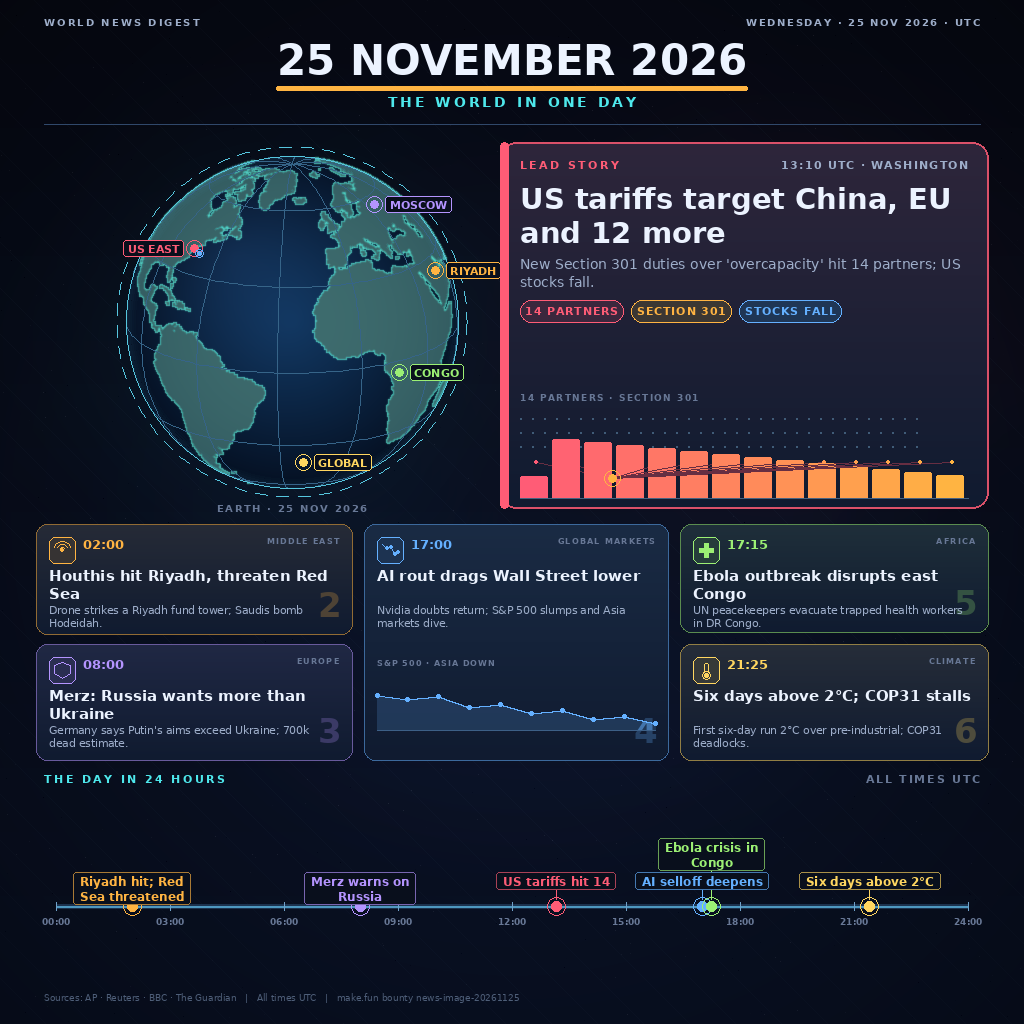
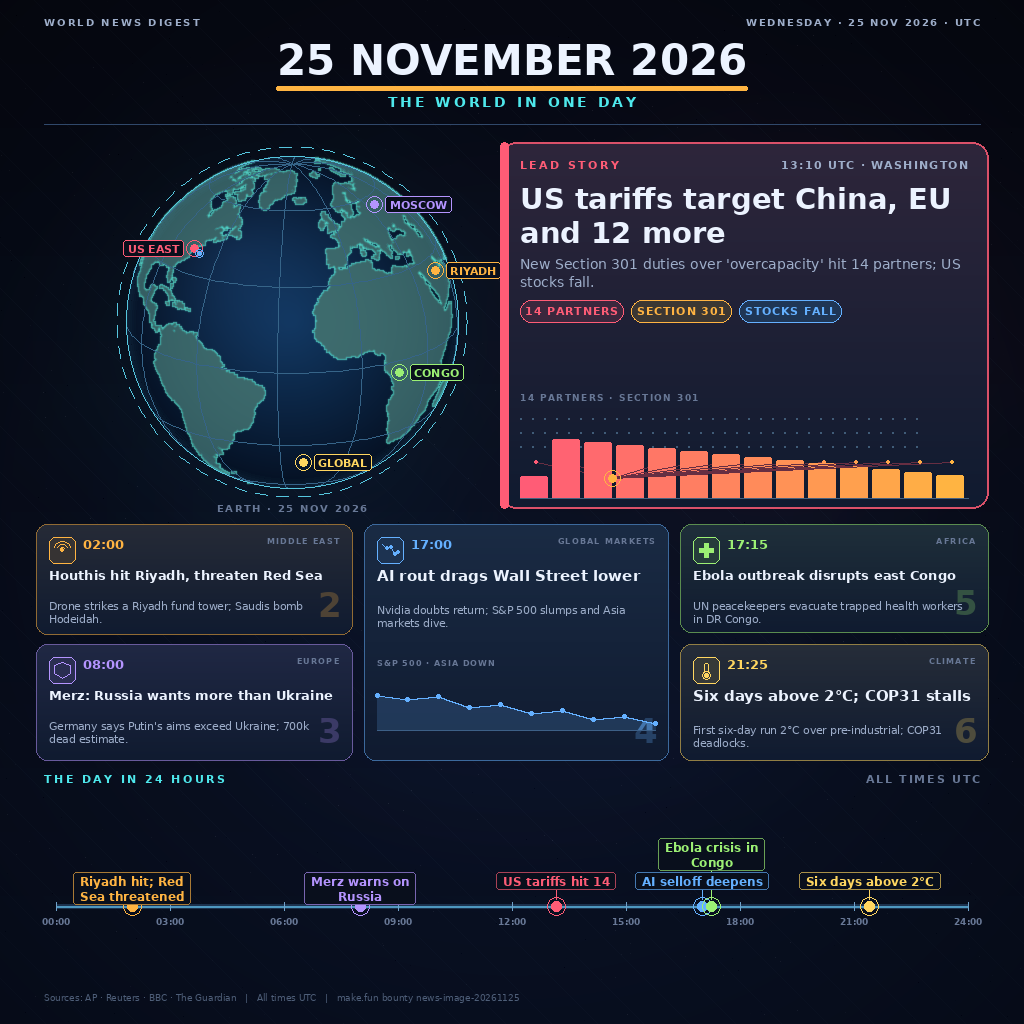
draw: use fit_headline in card and rerender

Changed region(s): [[0.0312, 0.6562, 0.3125, 0.75], [0.0312, 0.5312, 0.3125, 0.625], [0.6875, 0.5312, 0.9375, 0.625]]

diff --git a/draw.py b/draw.py
@@ -494,16 +494,16 @@ def card(img, s, box, compact=False):
     text(d, (x1 - pad, y0 + pad - 1), s["region"], font(FONT_BOLD, 8),
          INK_FAINT, anchor="ra", spacing=1.2)
 
-    f_head = font(FONT_BOLD, 15)
-    hlines = wrap(s["head"], f_head, w - pad * 2 - 2)[:2]
+    f_head, hlines, hsz = fit_headline(s["head"], w - pad * 2 - 2)
+    lh = hsz + 3
     yy = y0 + pad + 30
     for ln in hlines:
         d.text((x0 + pad, yy), ln, font=f_head, fill=INK)
-        yy += 18
+        yy += lh
     if not compact:
         f_sum = font(FONT_REG, 10.5)
         slines = wrap(s["summary"], f_sum, w - pad * 2 - 2)[:2]
-        yy = max(yy + 1, y0 + pad + 30 + 2 * 18 + 1)
+        yy = max(yy + 1, y0 + pad + 30 + 2 * lh + 1)
         for ln in slines:
             d.text((x0 + pad, yy), ln, font=f_sum, fill=INK_DIM)
             yy += 13
